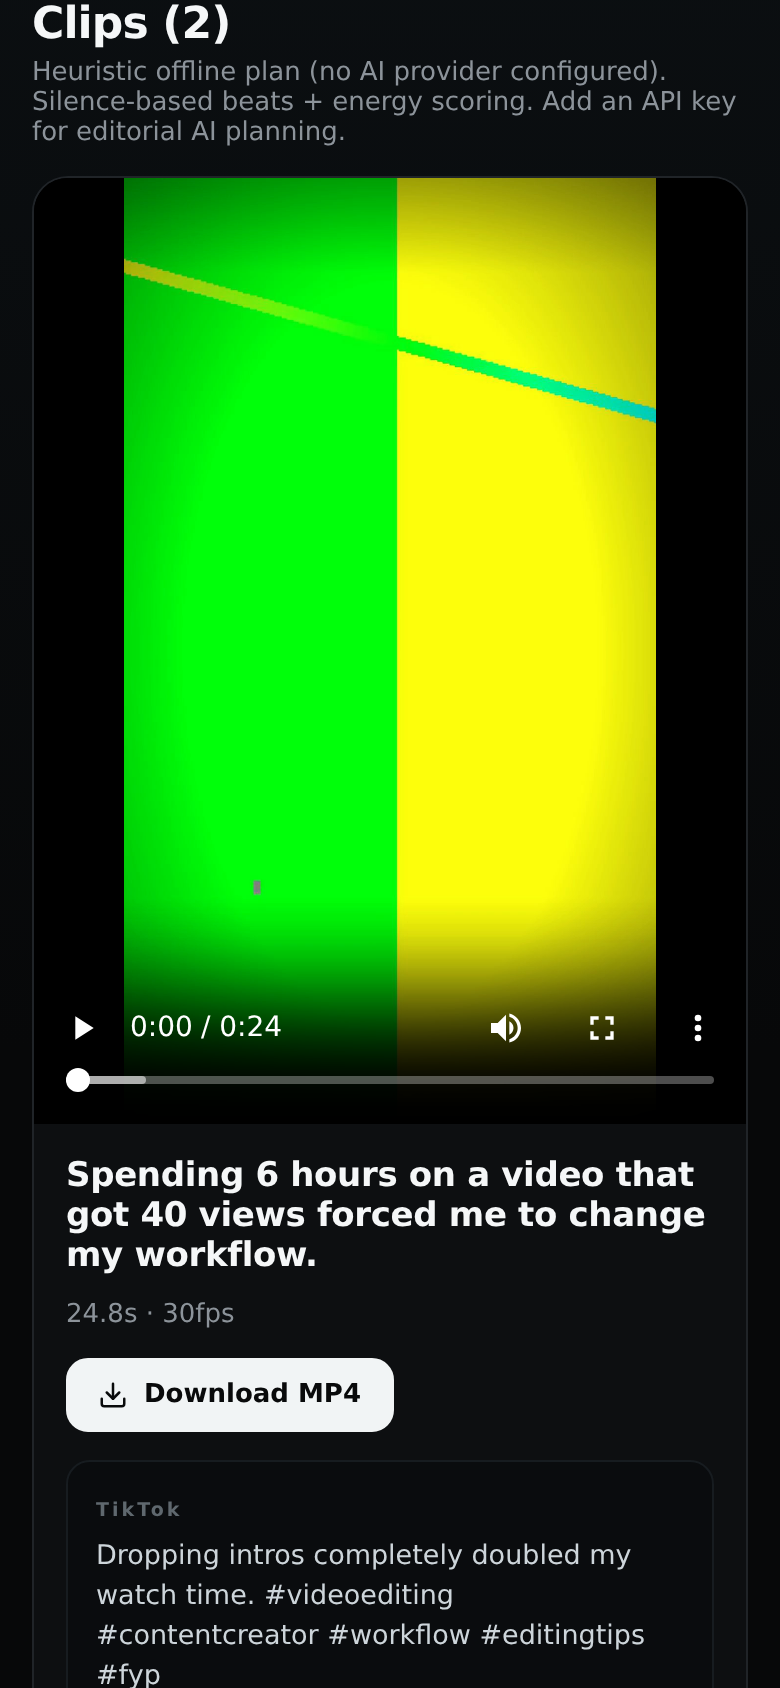
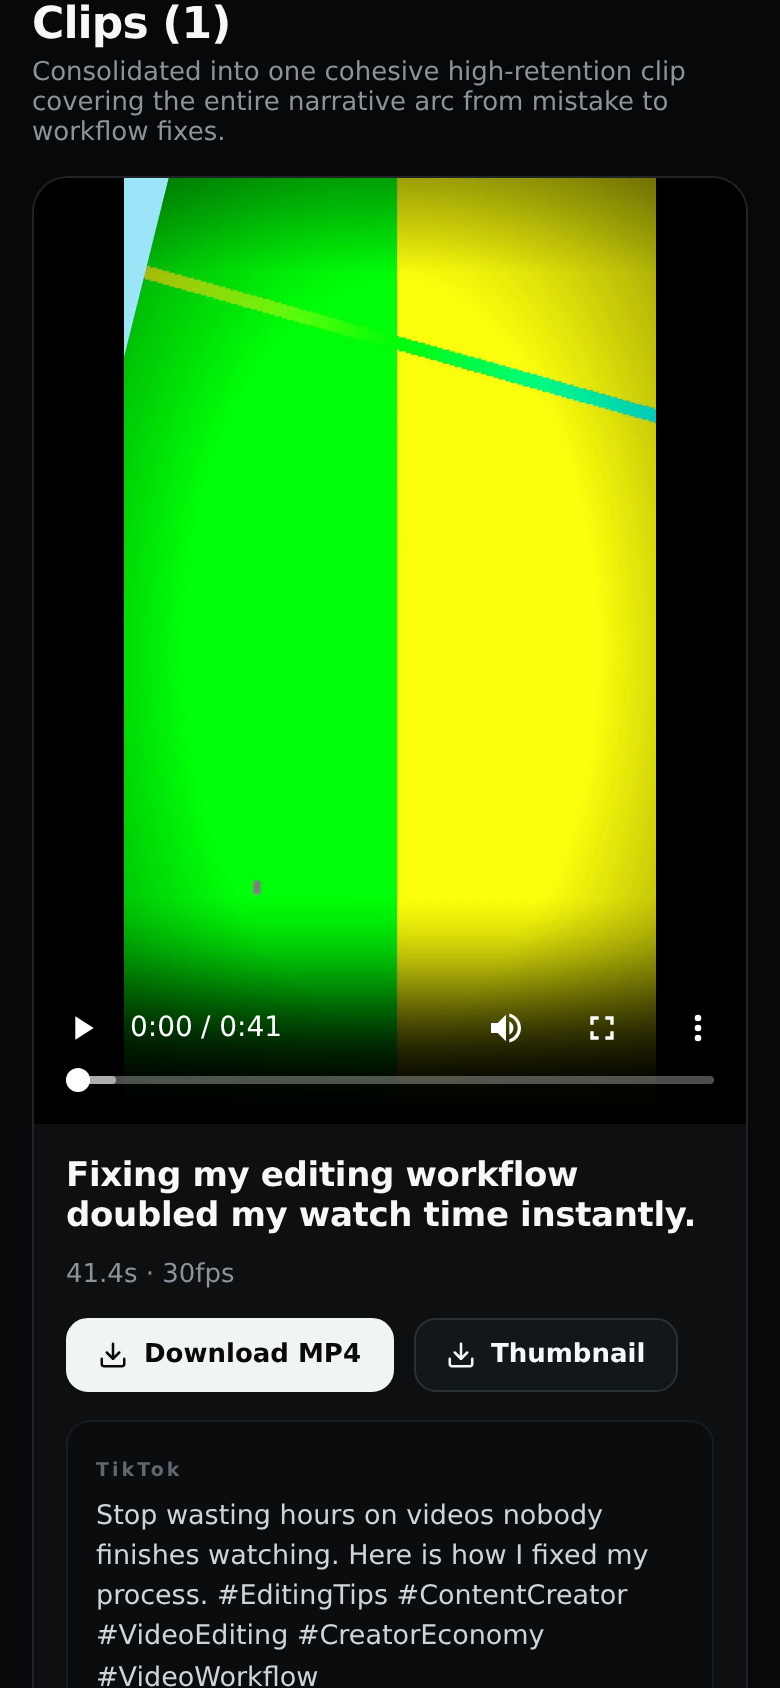
full AI E2E proven: Gemini drives video/analyze/plan/package (d35d90c4, 654s); docs + screenshots

diff --git a/docs/SESSION_STATE.md b/docs/SESSION_STATE.md
@@ -58,6 +58,10 @@
   1080x1920@30fps, QC 1/1, meta (title/angle/tags/CTA/captions/rationale) + variant in UI
 - regression harness hardened: makeSource() ffprobe-validates cached synthetic sources
   (a truncated src60.mp4 in .cache caused a false case-B failure after reset #7)
+- E2E d35d90c4 DONE (654s) — **FULL AI RUN**: video/analyze/plan/package all via
+  gemini-3.5-flash-lite (key wired server-side). Gemini hook "I spent 6 hours for 40 views",
+  arch consequence-first-explanation, stat graphic at the payoff, variant angle
+  "Stop starting your videos with intros"; QC 1/1, 1080x1920@30+audio
 - E2E 54ca9028 DONE (600s): 2 clips + 2 VARIANTS (payoff-led hooks), frame-verified A/B hooks
   (main "SO THREE MONTHS AGO I MADE" curiosity vs variant "IT SOUNDS SIMPLE BUT IT MORE THAN
   DOUBLED MY WATCH TIME" payoff — same edit, different hook); stat graphic "2x" at 14.28s
